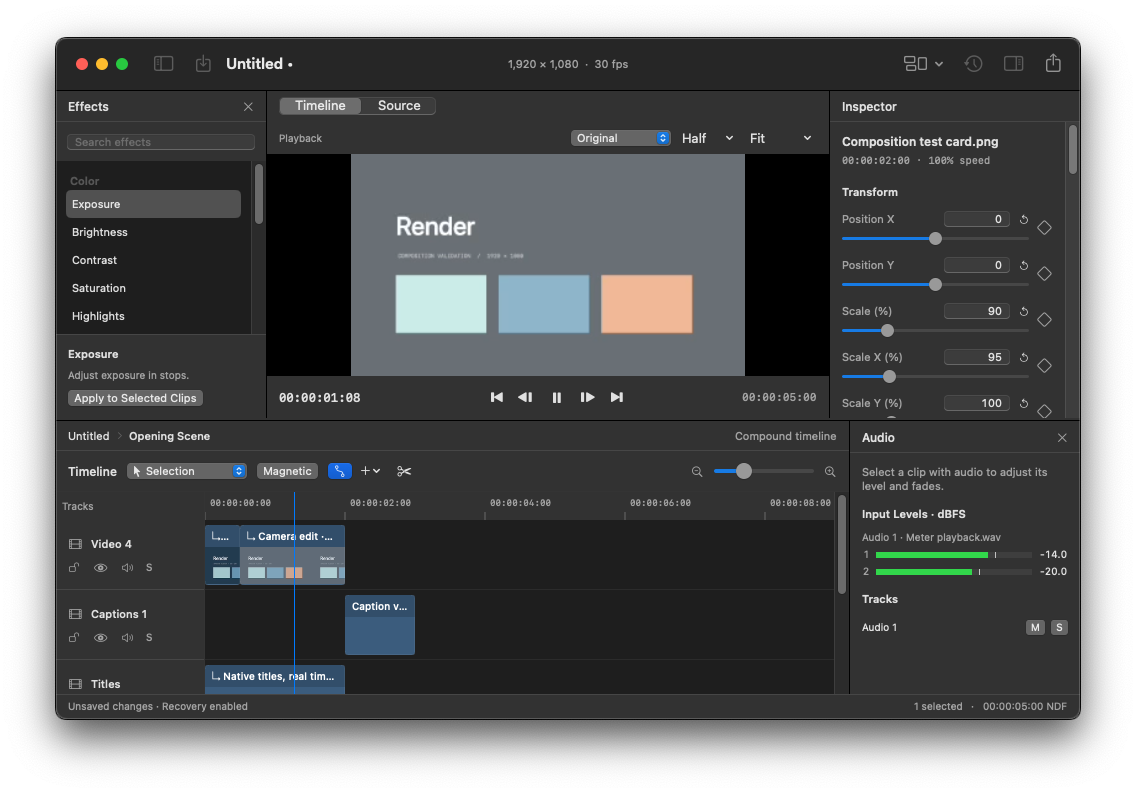
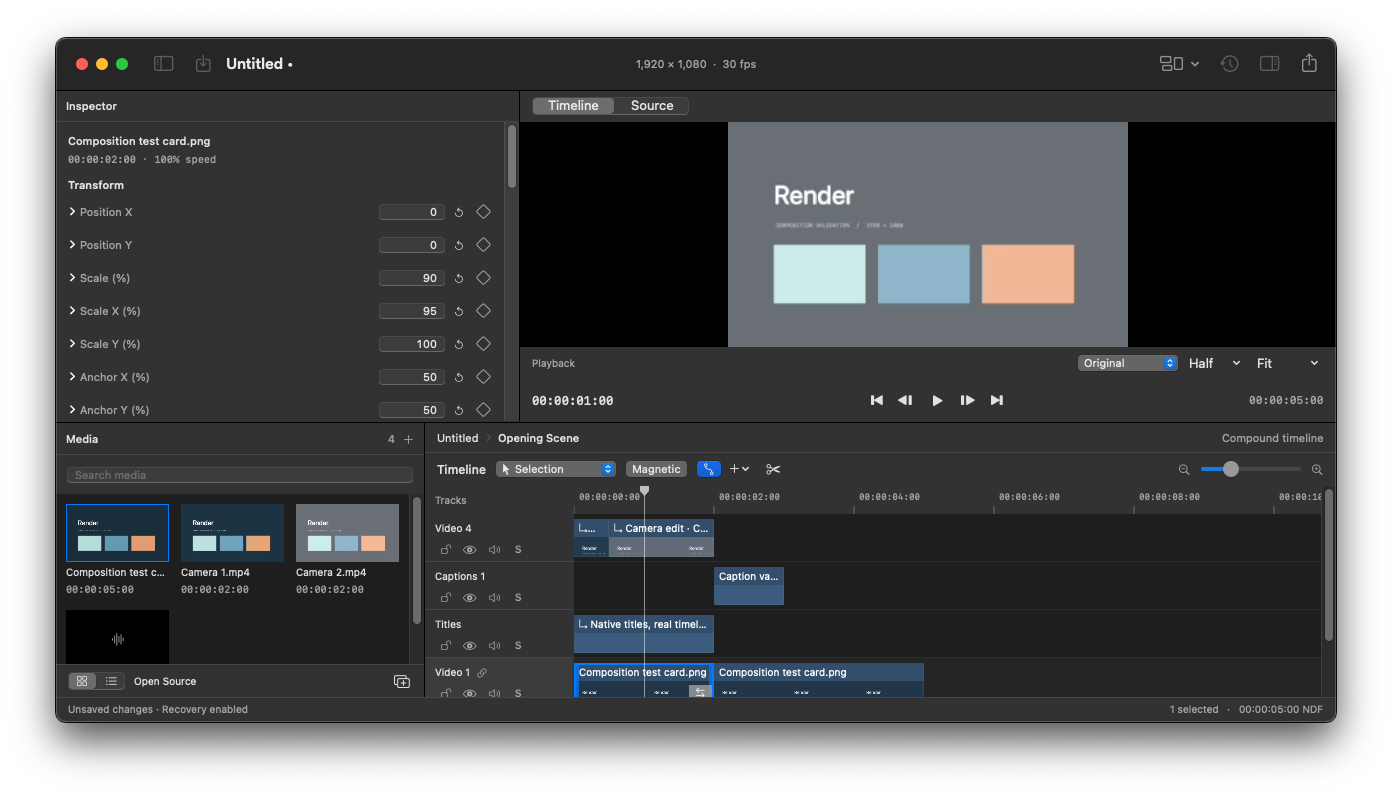
docs: show validated editing workspace and contextual controls

diff --git a/README.md b/README.md
@@ -44,7 +44,7 @@ The package script builds an ARM64 Release bundle, generates the icon, ad-hoc si
 
 ## Release status
 
-Version 0.26.0 cleans up workspace surfaces, typography, panel headers, viewer controls and numeric fields in both appearances. Version 0.25.0 adds persistent, context-aware editing shortcuts in Settings, conflict detection, native recording and updated shortcut help. Version 0.24.1 fixes source-viewer focus when navigating compound timelines with different frame rates. Version 0.24.0 adds an independent source viewer and saved in/out marks for append, insert and overwrite. Version 0.23.0 adds multitrack drag previews, atomic cross-track moves and Escape cancellation. Version 0.22.0 adds clip EQ, compression, sample peak limiting and gating with shared playback/export processing. See [audio processing](docs/AUDIO_PROCESSING.md) for ordering and limitations. Version 0.21.1 corrects leading-handle trims while preserving animation and connection timing. Version 0.21.0 adds continuous reverse preview for compositions that cannot reverse natively. Version 0.20.0 adds real decoded-input peak/RMS audio meters. Version 0.19.0 adds independent effects/audio panes, workspace presets and Full/Half/Quarter preview resolution. Version 0.18.0 adds compound creation, nested timeline editing, root-document persistence, cross-context undo and live nested rendering/audio. Version 0.17.0 introduced the hierarchical GPU compositor. Version 0.16.0 limits timeline track views and filmstrip requests to the vertical viewport. Version 0.15.0 added persistent multicam sources, paged camera previews and undoable angle cuts. Camera offsets are manual and cuts pause while rebuilding playback. Version 0.14.1 preserves focused inspector drafts when saving and retains fades on detached audio. Version 0.14.0 added H.264/HEVC quality presets, custom bitrates and output-size estimates; 0.13.0 added reviewed audio synchronization; 0.12.0 added clip fade curves. Earlier releases introduced cut transitions, filmstrips, animated geometry, magnetic editing, titles/captions, proxies, keyframes, chroma key and effect masks. See the versioned release notes for validation and limitations.
+Version 0.27.0 introduces a denser editing layout, compact thumbnail browsing and context menus across tracks, clips, markers and the viewer. Version 0.26.0 cleans up workspace surfaces, typography, panel headers, viewer controls and numeric fields in both appearances. Version 0.25.0 adds persistent, context-aware editing shortcuts in Settings, conflict detection, native recording and updated shortcut help. Version 0.24.1 fixes source-viewer focus when navigating compound timelines with different frame rates. Version 0.24.0 adds an independent source viewer and saved in/out marks for append, insert and overwrite. Version 0.23.0 adds multitrack drag previews, atomic cross-track moves and Escape cancellation. Version 0.22.0 adds clip EQ, compression, sample peak limiting and gating with shared playback/export processing. See [audio processing](docs/AUDIO_PROCESSING.md) for ordering and limitations. Version 0.21.1 corrects leading-handle trims while preserving animation and connection timing. Version 0.21.0 adds continuous reverse preview for compositions that cannot reverse natively. Version 0.20.0 adds real decoded-input peak/RMS audio meters. Version 0.19.0 adds independent effects/audio panes, workspace presets and Full/Half/Quarter preview resolution. Version 0.18.0 adds compound creation, nested timeline editing, root-document persistence, cross-context undo and live nested rendering/audio. Version 0.17.0 introduced the hierarchical GPU compositor. Version 0.16.0 limits timeline track views and filmstrip requests to the vertical viewport. Version 0.15.0 added persistent multicam sources, paged camera previews and undoable angle cuts. Camera offsets are manual and cuts pause while rebuilding playback. Version 0.14.1 preserves focused inspector drafts when saving and retains fades on detached audio. Version 0.14.0 added H.264/HEVC quality presets, custom bitrates and output-size estimates; 0.13.0 added reviewed audio synchronization; 0.12.0 added clip fade curves. Earlier releases introduced cut transitions, filmstrips, animated geometry, magnetic editing, titles/captions, proxies, keyframes, chroma key and effect masks. See the versioned release notes for validation and limitations.
 
 This release is ad-hoc signed and not notarized. Physical-device performance profiling and the manual release checklist remain required before production use.
 
